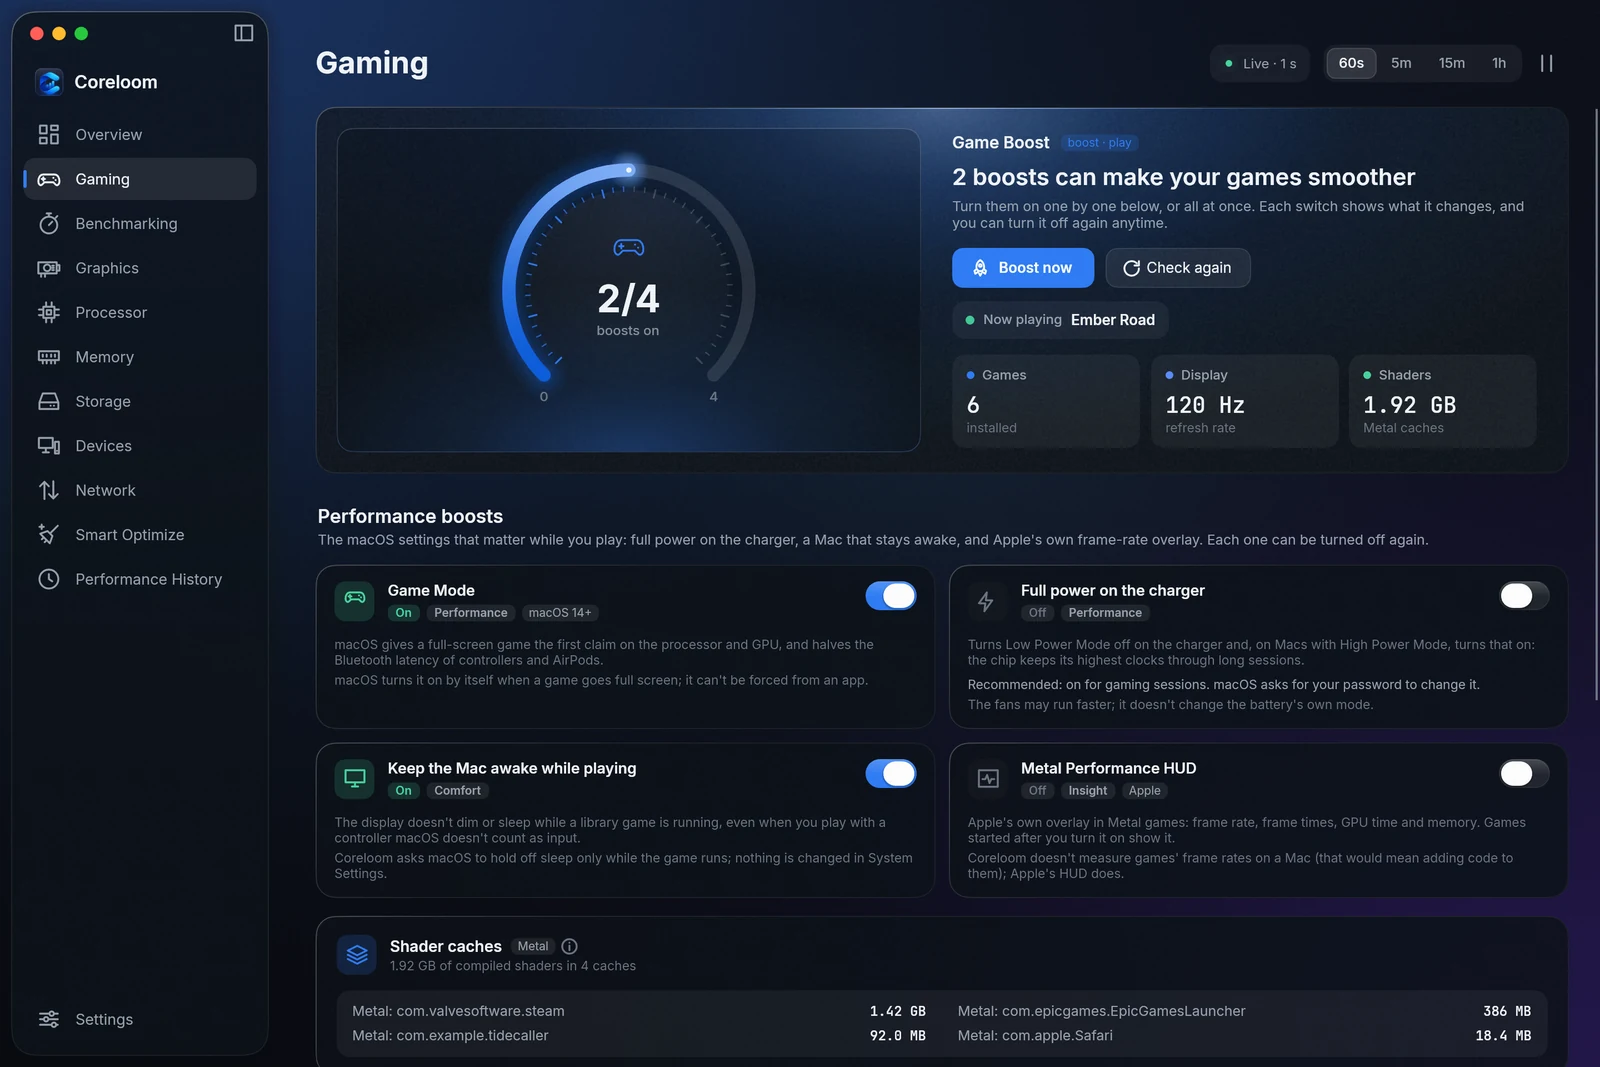
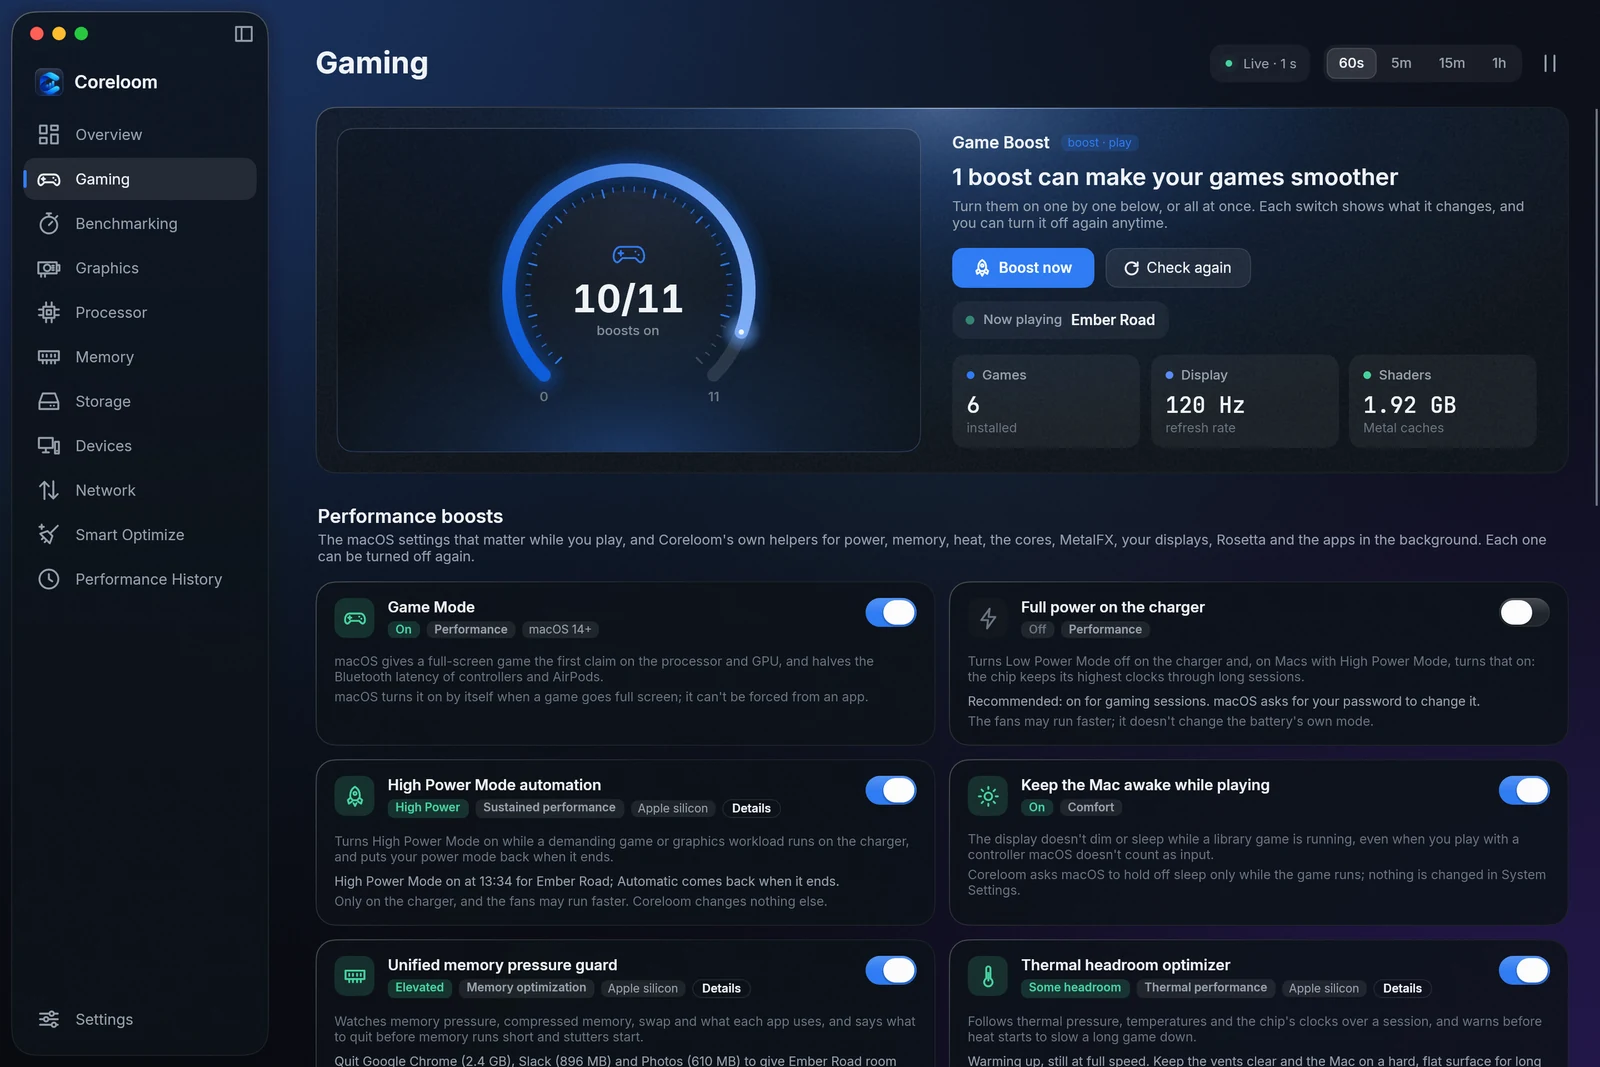
1.9.4: every picture on the website and in the README redrawn, the link preview, and the verification notes
The website's New in 1.9.4 shows the Mac's Gaming boosts and the Windows Overview with the
smaller PC. Every Mac picture comes from MacShots of this code; every Windows picture from
page shots run 42036892097. Mac verify run 42036895995 passed on Apple silicon and Intel.

Claude-Session: https://claude.ai/code/session_01KSkAPnRycRxeooZjZu2bHo

diff --git a/docs/VERIFICATION.md b/docs/VERIFICATION.md
@@ -1123,6 +1123,28 @@ Windows installer and portable zip, the three stable names and SHA256SUMS.txt), 
 - The new PC picture on real Windows screens at 100–200 % scaling, and the grain at none on a real screen (it can show faint steps in the darkest gradients).
 - The 1.9.0–1.9.2 items still open (the look and motion on real screens, the splash on 4K, the sidebar surfaces on real hardware, the core scheduling colours on a real Ryzen X3D).
 
+## 1.9.4: eight Mac Gaming boosts in place of the Metal HUD; glows that aren't cut off; centred icons; no glow behind the Mac; a smaller PC
+
+### Verified
+
+| What | How | Result |
+|---|---|---|
+| Tests | Core (`Release194Tests`: a workload starts with a game or a long busy GPU and ends after a quiet spell; High Power Mode is raised on the charger, put back after, and a hand change is left alone; the sudoers rule allows only the charger's power mode for a safe user name; the memory guard suggests the biggest apps, never the game or macOS, and growing swap during a game counts; thermal headroom follows macOS's state and counts slowdowns, an idle chip running slow isn't throttling; the cores' time shared out and what competes with the game found; MetalFX found by class name, across two pieces of a stream and only where a program keeps names; a universal program's Apple silicon slice; displays; the governor lists heavy apps first and never the game, macOS or launchers; quit profiles kept tidy and older settings with the boosts off) and view models (`Release194ViewModelTests` with a fake Mac: the Metal HUD made way for eight boosts, each with Details; High Power Mode automation asks once, raises for a game and puts the mode back, waits on battery and is unavailable without High Power Mode; the memory guard's Details list the apps; MetalFX, displays and Rosetta report what they find; the governor quits ticked apps, keeps them for a game and reopens them after, also when quitting while a game runs; the core and Rosetta boosts don't apply on an Intel Mac; nothing changes on Windows) and every earlier test | ✅ in the container (Core 794, view models 239) |
+| Glows aren't cut off | MacShots measures every glowing card on every page against what's drawn around it (`glow-check.txt`): Overview 10 cards, Benchmarking 2, GPU 5, CPU 5, Memory, Storage and Devices 1 each, 0 cut off. With the fix taken out, 9 of the 10 Overview cards had their glow cut, so the check sees it. `overview-hover.png` shows a hovered card's full glow | ✅ |
+| Icons centred and scaled alike | All 156 Mac icons are drawn on one 18-point grid and centred in their boxes. Measured on the Overview's GPU, GPU temperature, CPU and CPU temperature tiles (MacShots at 2×, dark and light): every glyph's centre 0 px from its tile's centre, the thermometers and the chip the same height | ✅ |
+| No glow behind the Mac | MacShots (every Mac model drawing) and the real app on GitHub's Macs: the Overview's Mac stands on its own | ✅ |
+| The Mac's Gaming boosts | MacShots with a sample Mac: the boosts list, each boost's Details (memory, MetalFX, displays, cores, power, thermal, Rosetta) and the background-apps card with a game's quit list; strict run, 0 binding errors. The real app (Mac verify run 42036895995, `macverify-194`, on e801863): the Gaming page counts 9 boosts on a virtual Mac with no charger and no High Power Mode, the two power boosts *Not available*; tests 187 + 1 skipped (Apple silicon) and 188 (Intel); 12 pages, quits cleanly, no errors in the log beyond GitHub's rate limit for the update check | ✅ |
+| The smaller PC | Page shots run 42036892097 (`shots-194`): the Overview's PC at 174 × 208 with even room above, below and to its left, the fans, pump and card text in place; the clip check 0 cut off on all 29 shots | ✅ |
+| Website | Playwright as a Mac, a Windows and a phone-sized visitor at four widths: *New in 1.9.4* with its picture (Mac: the Gaming boosts; Windows: the Overview with the smaller PC), six points and the badge, nothing cut off, every section with room, the backgrounds switcher, no overflow; every picture on the site and in the README redrawn, and the link preview | ✅ |
+
+### Not verified yet
+
+- High Power Mode automation on a MacBook Pro that has High Power Mode, plugged in: the password prompt, the sudoers rule, the switch while a game runs and the mode coming back after it.
+- MetalFX found in real games that use it, GPU time per app (read from the GPU's IORegistry user clients, keys taken from Apple's driver as it was known), and the performance-core split from `proc_pid_rusage` on real macOS versions.
+- The displays' ProMotion, HDR and colour depth on real built-in and external displays.
+- The background governor quitting and reopening real apps (apps that ask to save are left to the person).
+- The 1.9.0–1.9.3 items still open.
+
 ## How to re-run the checks that can run anywhere
 
 ```bash
